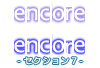
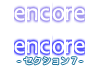
fix: title_14_a 亮态 r 下沉 2px 与光晕裁截——基线改逐字形实测、r 窗口保全头尾光晕
Claude-Session: https://claude.ai/code/session_01NMfVkUU9EMytoLWiKYguCJ

Changed region(s): [[0.12, 0.5588, 0.87, 0.8235], [0.66, 0.0882, 0.72, 0.1176]]

diff --git a/tools/bake_finale_menu.py b/tools/bake_finale_menu.py
@@ -11,8 +11,9 @@ bake_para_glow（与 bake_sysgim_title 同款 Spec），遮掉捐赠注、烤上
 
 字形盒与词行窗口来自逐列/逐行强像素（alpha>200）投影实测（GLYPHS /
 WINDOWS / BASELINE 表）；r 取 Prologue 的 ro 连段左半、切割列钉死在
-[18,24)（x17/24-25 分别是 P 升部与 o 的横向光晕渗入列，一并舍弃），
-窗口再收顶以避开 P 顶部光晕。lower 态一律裁
+[18,24)（x17/24-25 分别是 P 升部与 o 的横向光晕渗入列，一并舍弃）；
+盒收窄后 P 顶部渗入已实测为零（y0-5 干净），r 的头尾光晕（up y6-7、lo y57-58）
+完整保留——早先窗口裁掉光晕尾曾造成 r 底缘生硬、被目检读作"色差"。lower 态一律裁
 **词行窗口**而非整半区——半区里还躺着小注行，整裁会混入注的像素。
 输出：docs/finale/assets/title_14_a_src.png ＋ build/finale_menu/ 3x 目检图。
 不触碰 png/sysgim/ 原件。
@@ -47,13 +48,18 @@ WORD = "encore"
 
 # 词行裁剪窗口 (src,state) -> (y0,y1)：含光晕、不含小注行。
 WINDOWS = {
-    ("13", "up"): (0, 24),  ("02", "up"): (7, 24),
-    ("13", "lo"): (32, 56), ("02", "lo"): (42, 56),
+    ("13", "up"): (0, 24),  ("02", "up"): (5, 24),
+    ("13", "lo"): (32, 56), ("02", "lo"): (42, 59),
 }
 # 词芯强像素基线（bottom，实测）：贴图时平移对齐，抵消源图排版差。
+# 基线＝该源该态 x-height 字形的 strong 底行**逐一实测**（t13 用 e/n，t02 用 r；
+# 平底与圆底字形在本字体同底，n 与 e 实测同为 53/20）。曾按 plan 的"词 y[35,55]"
+# 取 t13 lo=55，比实测低 2px，导致 r 相对 t13 群下沉 2px——用户目检抓出的错位即此。
 BASELINE = {("13", "up"): 20, ("02", "up"): 20,
-            ("13", "lo"): 55, ("02", "lo"): 56}
-TARGET_BASE = {"up": 20, "lo": 20 + SPLIT}   # 新图两态基线（沿 title_13 上半位）
+            ("13", "lo"): 53, ("02", "lo"): 56}
+# TARGET lo=53 使 t13 群 y_paste=32＝半区内原位（两图同 68 高、同 34 分界），
+# r 按同底对齐；up 同理原位。
+TARGET_BASE = {"up": 20, "lo": 53}
 
 NOTE_BOX = (47, 56, 115, 66)   # title_13 下半小注条『- セクション7 -』
 
